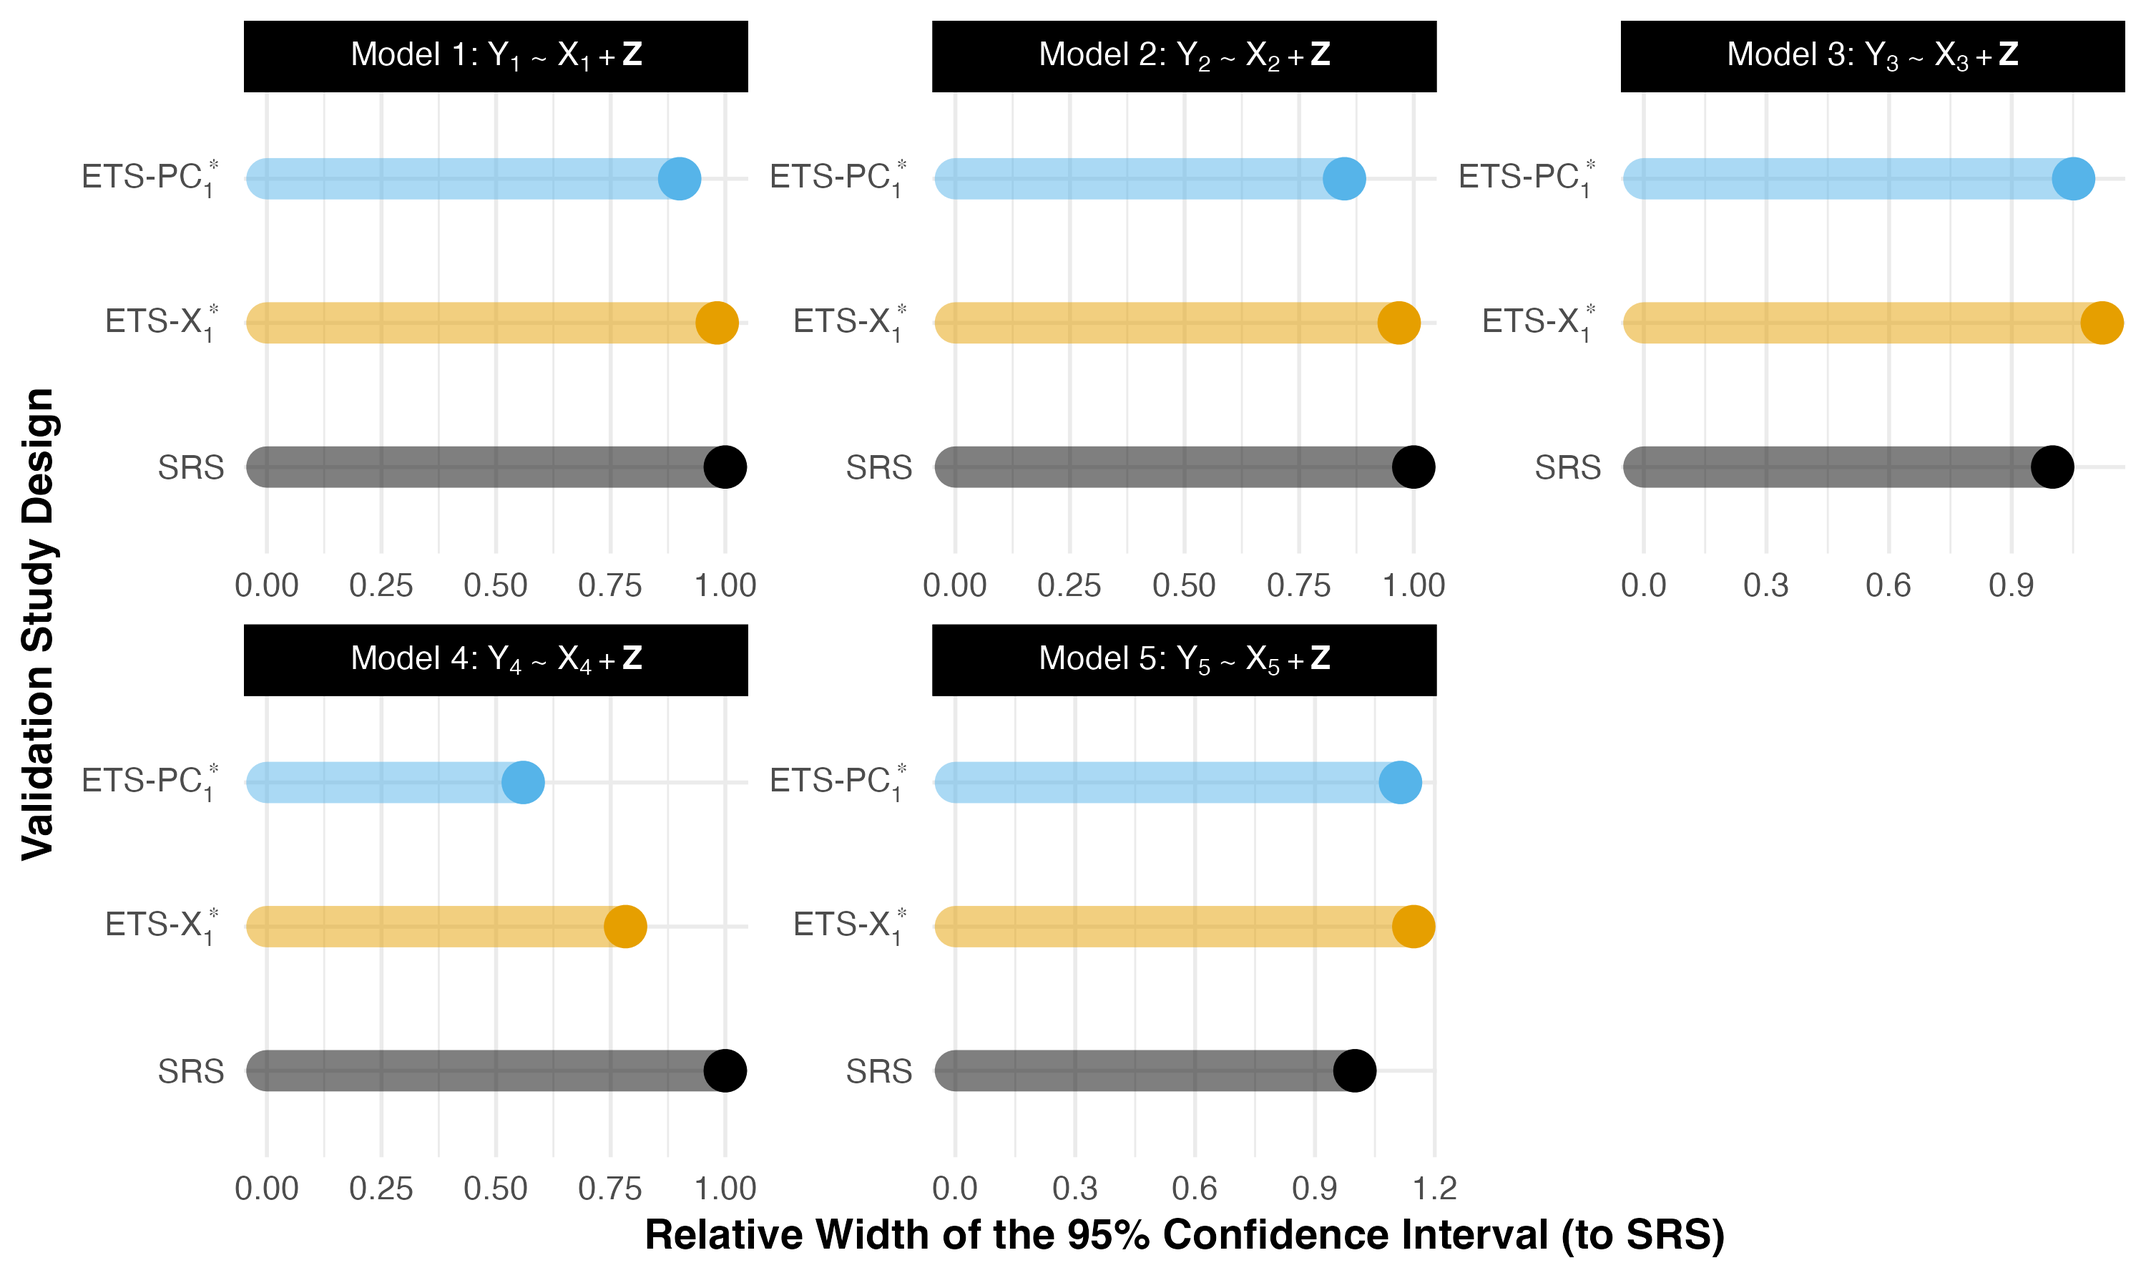
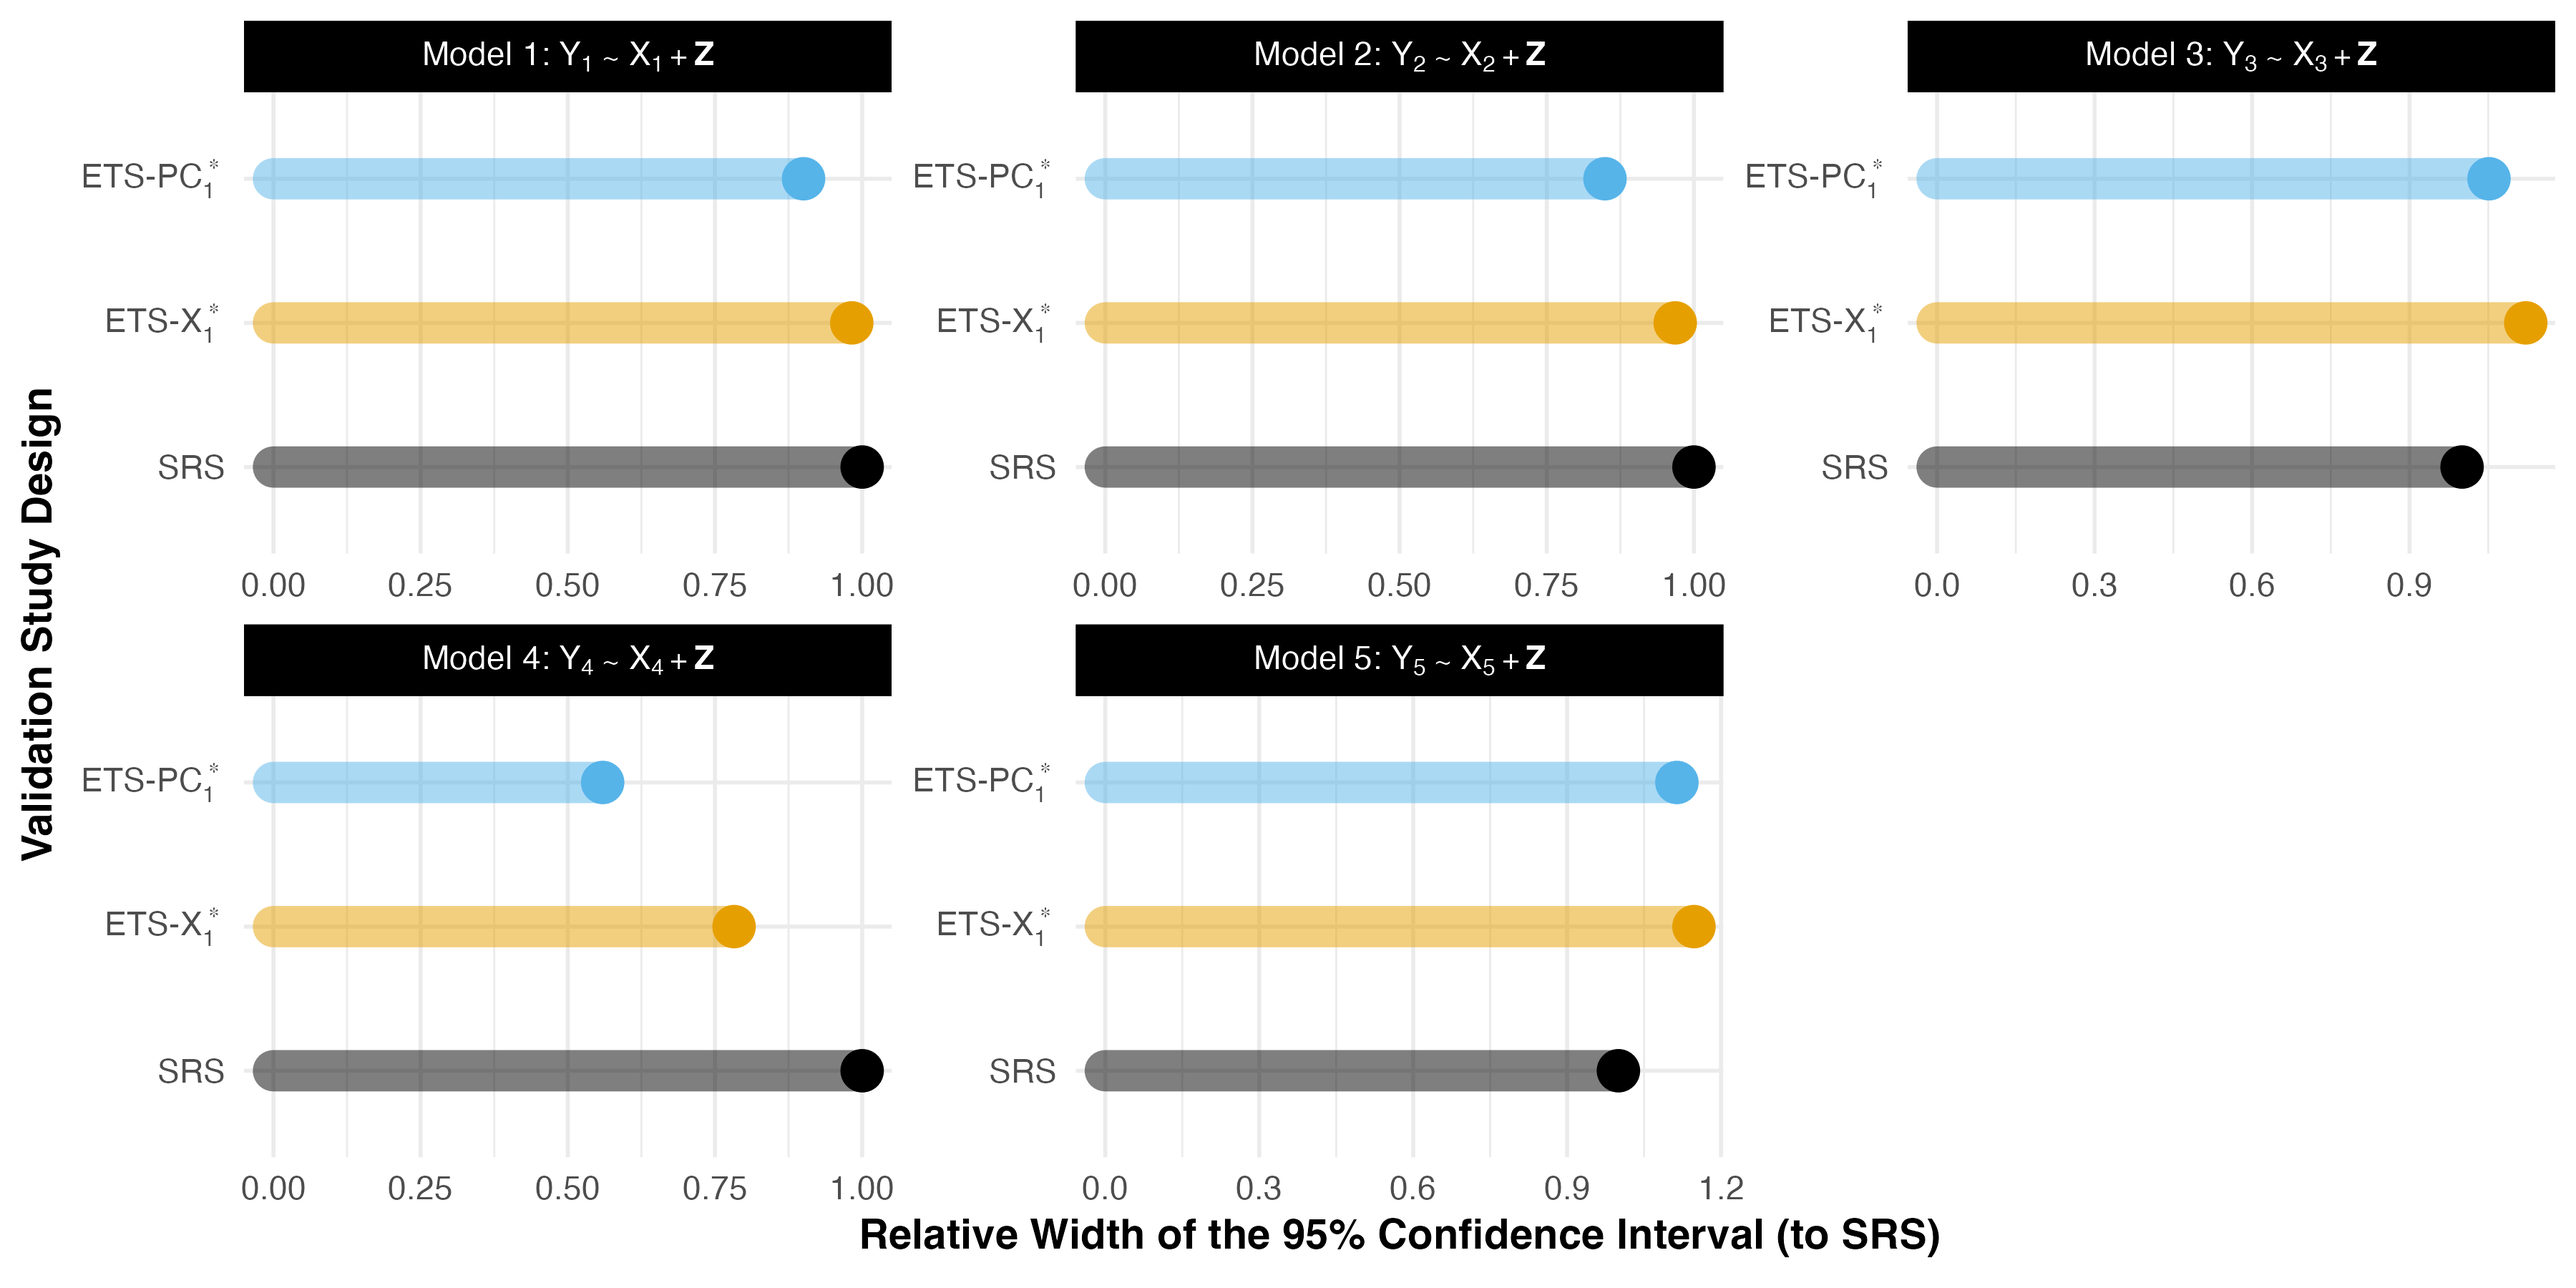
Remake README and CACHE

diff --git a/README.md b/README.md
@@ -427,6 +427,6 @@ both = (plot_coeff / plot_ciwidth) +
 ggsave(plot = both, 
        filename = "~/Documents/ETS_PCA/NHANES-Analysis/nhanes_forest_bar.pdf", 
        device = "pdf", 
-       width = 10, 
+       width = 12, 
        height = 10)
 ```
